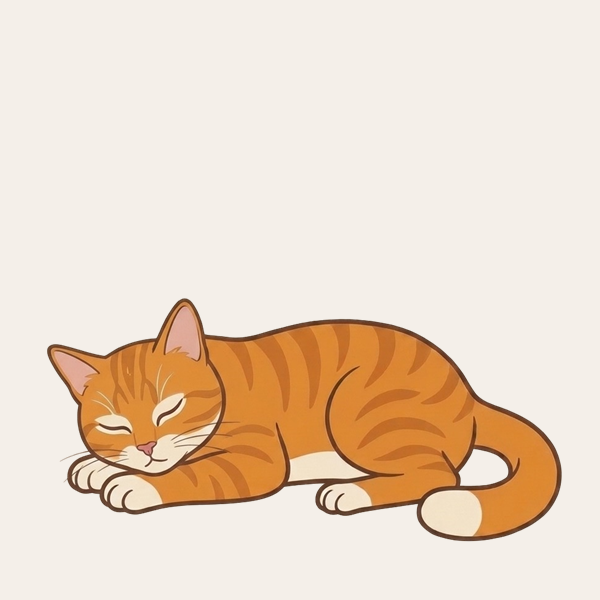
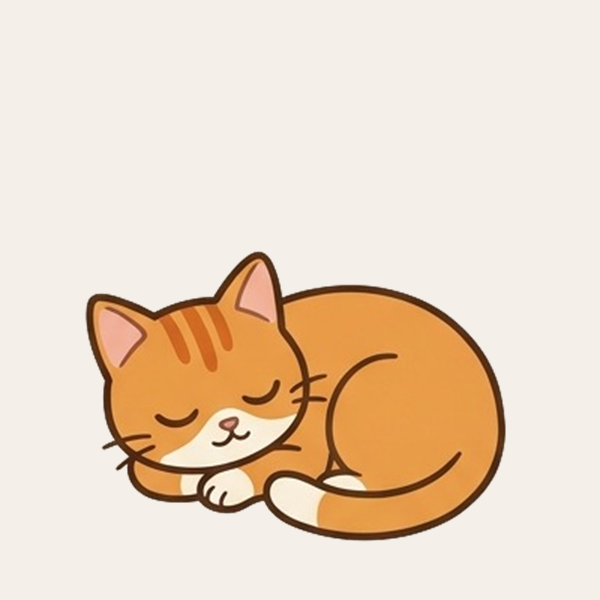
feat(pet): freeze 7 simplified storybook cat v2 masters
Switching from the complex striped tabby to a simplified Japanese
picture-book orange cat eliminates cross-pose stripe drift and video
flicker while enabling interactive sitting mouse-tracking (#221).

All 7 masters (standing, lying, sleeping, drag, sit-left, sit-center,
sit-right) export at 400x400 8-bit RGBA anchored at (200, 360) with
foot_dy = 0 px, and sit-left/sit-right align to sit-center's lower body
(lowerIoU 0.9869 / 0.9959) so only the head turns when watching.

Changed region(s): [[0.06, 0.42, 0.96, 0.9]]

diff --git a/docs/pet-video-prompts.md b/docs/pet-video-prompts.md
@@ -1,6 +1,6 @@
 # 我的JiuMi 视频生成提示词
 
-记录桌面猫动画所用的 Image Edit / VideoGen 提示词与后处理规范。**Phase 2（#211）已冻结 v2 角色风格母版、4 张基准母姿与 L1/L2/L3 三套标准化提示词模板**；Phase 3 全量新动画生产一律以「v2 标准化模板」章节为唯一入口，下方保留 v1 历史记录备查。
+记录桌面猫动画所用的 Image Edit / VideoGen 提示词与后处理规范。**Phase 2（#211）已冻结 v2 极简日系绘本橘猫角色风格母版、7 张基准母姿（含 4 核心母姿 + 3 向坐姿看鼠标母姿）与标准化提示词模板**；Phase 3 全量新动画生产一律以「v2 标准化模板」章节为唯一入口，下方保留 v1 历史记录备查。
 
 ---
 
@@ -10,72 +10,79 @@
 
 | 资产 | 路径 | 规格与对齐 | 用途 |
 | --- | --- | --- | --- |
-| 角色风格母版 | `docs/images/pet/v2-masters/style-sheet.png` | 脸部特写 + 3/4 站姿标尺 + Hex 色板 + 描边线宽样本 + 四母姿同尺排布 | 角色身份、配色、线宽唯一依据 |
-| 四母姿总览原图 | `docs/images/pet/v2-masters/raw/master-4poses-sheet-raw.png` | `1200×1200` `2×2` 归一化合图（基于「静止站姿单图 → 趴姿/拎起 → 趴姿推熟睡」链式派生，统一 `#F4EFE9` 纯底） | 4 张母姿统一标尺与花纹核对总览 |
-| 母姿 B：趴姿 | `docs/images/pet/v2-masters/master-lying.png` | `400×400` 8-bit RGBA · `anchor: { x: 200, y: 360 }` · 统一标尺 `0.700@600`（`354×217`） | `lying-idle` / `blink` / `react` 底图；`stretch` 首帧、`wake` 末帧、`sleep-in` 首帧 |
-| 母姿 A：站姿 | `docs/images/pet/v2-masters/master-standing.png` | `400×400` 8-bit RGBA · `anchor: { x: 200, y: 360 }` · 统一标尺 `0.700@600`（`333×244`） | 静止四足站立唯一锚点（前后双腿各自并拢、前腿横纹清晰一致）；`stretch` 末帧、`walk` 首帧、`jump` 起止基准 |
-| 母姿 C：熟睡 | `docs/images/pet/v2-masters/master-sleeping.png` | `400×400` 8-bit RGBA · `anchor: { x: 200, y: 360 }` · 统一标尺 `0.700@600`（`344×163`） | 由趴姿直接低头闭眼派生（躯干与绕侧尾 100% 咬合）；`sleep` 底图、`sleep-in` 末帧、`wake` 首帧 |
-| 独立态：拎起 | `docs/images/pet/v2-masters/master-drag.png` | `400×400` 8-bit RGBA · `anchor: { x: 200, y: 360 }` · 统一标尺 `0.700@600`（`332×252`） | `drag` 循环底图 |
-| 单态切片原图 | `docs/images/pet/v2-masters/raw/master-{lying,standing,sleeping,drag}-raw.png` | 去背归一化至 `#F4EFE9` 纯底的 `600×600` 单姿原图（与 `400×400` 严格 `1.5×` 对应，`anchor: 300,540`） | L1/L2/L3 模型输入原图（导出统一乘 `2/3 ≈ 0.667`） |
-| 审片图 | `docs/images/pet/v2-masters/onion-skin-masters.png`、`preview-light-dark-200dip.png` | `tools/verify-pet-pack.ps1` 渲染输出 | 四母姿洋葱皮重叠校验 + 浅/深色 200 DIP 边缘校验 |
+| 角色风格母版 | `docs/images/pet/v2-masters/style-sheet.png` | 圆形脸部特写 + 3/4 站姿标尺 + 实测 Hex 色板 + 描边线宽样本 + 4 核心母姿 + 3 坐姿母姿排布 | 角色身份、配色、线宽唯一依据 |
+| 六姿原图与拎起原图 | `docs/images/pet/v2-masters/raw/master-6poses-source-raw.png`、`raw/master-drag-source-raw.png` | `1024×1024` 极简绘本纯文生图六姿原图（`#F2EEE3` 底）+ 派生拎起单图（`#F1EEDF` 底） | 7 张冻结母姿的唯一无损源画布 |
+| 母姿 A：站姿 | `docs/images/pet/v2-masters/master-standing.png` | `400×400` 8-bit RGBA · `anchor: { x: 200, y: 360 }` · `scale=1.000`（`284×272`） | 静止四足站立（前后双腿各自并拢）；`stretch` 末帧、`walk` 首帧、`jump` 起止基准 |
+| 母姿 B：趴姿 | `docs/images/pet/v2-masters/master-lying.png` | `400×400` 8-bit RGBA · `anchor: { x: 200, y: 360 }` · `scale=1.000`（`293×215`） | `lying-idle` / `blink` / `react` 底图；`stretch` 首帧、`wake` 末帧、`sleep-in` 首帧、`sit-to-lie` 末帧 |
+| 母姿 C：熟睡 | `docs/images/pet/v2-masters/master-sleeping.png` | `400×400` 8-bit RGBA · `anchor: { x: 200, y: 360 }` · `scale=1.000`（`280×194`） | `sleep` 底图；`sleep-in` 末帧、`wake` 首帧 |
+| 独立态：拎起 | `docs/images/pet/v2-masters/master-drag.png` | `400×400` 8-bit RGBA · `anchor: { x: 200, y: 360 }` · `scale=0.400`（`318×264`） | `drag` 循环底图 |
+| 坐姿左看 | `docs/images/pet/v2-masters/master-sit-left.png` | `400×400` 8-bit RGBA · `anchor: { x: 200, y: 360 }` · 下半身对齐 `sit-center`（`282×309`） | `interactions.sit-watch-left`（鼠标在头左侧 `< -60 DIP`）；`sit-to-lie` 首帧 |
+| 坐姿中看 | `docs/images/pet/v2-masters/master-sit-center.png` | `400×400` 8-bit RGBA · `anchor: { x: 200, y: 360 }` · `scale=1.000`（`261×309`） | `interactions.sit-watch-center`（`\|cursorX - catHeadX\| <= 60 DIP`） |
+| 坐姿右看 | `docs/images/pet/v2-masters/master-sit-right.png` | `400×400` 8-bit RGBA · `anchor: { x: 200, y: 360 }` · 下半身对齐 `sit-center`（`256×311`） | `interactions.sit-watch-right`（鼠标在头右侧 `> +60 DIP`） |
+| 单态切片原图 | `docs/images/pet/v2-masters/raw/master-{lying,standing,sleeping,drag,sit-left,sit-center,sit-right}-raw.png` | 去背归一化至 `#F4EFE9` 纯底的 `600×600` 单姿原图（与 `400×400` 严格 `1.5×` 对应，`anchor: 300,540`） | L1/L2/L3 模型输入原图（导出统一乘 `2/3 ≈ 0.667`） |
+| 审片图 | `docs/images/pet/v2-masters/onion-skin-masters.png`、`onion-skin-sit-watch.png`、`preview-light-dark-200dip.png` | `tools/verify-pet-pack.ps1` 渲染输出 | 4 核心母姿洋葱皮 + 3 坐姿下身锁死洋葱皮 + 7 姿浅/深色 200 DIP 边缘校验 |
 
-**冻结色板与物理标尺**：
-- 轮廓深棕 `#5F3417`（圆角连接；`400×400` 导出 **`3.0 px`** → `200 DIP` 运行时 `~1.5 px`）；主毛暖橘 `#E69342`；虎斑深橘 `#D27831`（额头/脸颊/背部/体侧竖纹 + **双前腿清晰横纹** + 后大腿弧纹，**不单独描边**）；奶油白 `#F8E9D1`（口鼻/锯齿边白胸口/白腹缘/短白爪/圆润白尖尾）；耳廓粉 `#E8AE95`；粉鼻 `#D0967A`；琥珀虹膜 `#D88A28`（竖瞳 `#3A2210` + 白色高光）；参考画布底色 `#F4EFE9`（仅生成用，运行时透明）。保留精细浅淡胡须与额头小白眉线。
-- **物理标尺（`400×400` 实测自 `master-standing.png`）**：头宽 **`~93 px`**、躯干长（胸前至臀后不含尾）**`~218 px`**（自然 3–3.5 头身）、肩背高（距地面线 `y=360`）**`~177 px`**（含耳总高 `243 px`）。四张母姿统一按 `600×600` 归一化画布乘 **`0.700`**（`1024×1024` 派生图乘 `0.700 × 600 / 1024 = 0.41016`）导出：`maxY = 360`（底边留 `40 px` 余量、`foot_dy = 0 px`），质心 `x = 199.63–200.43`。`lying` 与 `sleeping` 的绕尾封闭孔洞已完全抠透并去边至 `#5F3417`，浅/深色背景零底色残留。
-- **尾巴与四肢花纹一致性标准（v2 冻结）**：采用**纯暖橘（`#E69342`）毛绒尾 + 圆润奶油白尖（`#F8E9D1`）**，**彻底去掉尾巴上“一圈一圈”的高对比深色环纹**；双前腿保持清晰统一的横向虎斑环纹、后大腿保持弧形条纹。
+**冻结色板与物理标尺（极简日系绘本风）**：
+- 轮廓深棕 `#542E12`（圆角连接，同步用于脸颊胡须；`400×400` 导出 **`~5.0 px`** → `200 DIP` 运行时 `~2.5 px`）；主毛蜂蜜暖橘 `#E89C4A`；额头三道对称竖纹 `#CD7834`（**仅额头 3 道对称圆头竖条，不画体侧与四肢虎斑、不单独描边**）；奶油白 `#F9EDD8`（口鼻/圆润胸口/腹缘/四只短圆白爪/短白尖尾）；耳廓粉 `#EFB29D`；粉鼻 `#D39175`；琥珀虹膜 `#DE9C48`（清晰深棕瞳孔 + 小白高光）；参考画布底色 `#F4EFE9`（仅生成用，运行时透明）。
+- **物理标尺（`400×400` 实测自 `master-standing.png`）**：头宽 **`~136 px`**、躯干长（胸前至臀后不含尾）**`~185 px`**（柔和紧凑的 **2.2–2.4 头身**绘本比例）、含耳总高 **`272 px`**（`y: 89..360`）。六格原图全部采用 **`scale = 1.000`** 零插值模糊导出，`drag` 单图按头宽对齐采用 **`scale = 0.400`** 导出；7 张母姿全部 **`maxY = 360`**（`foot_dy = 0 px`，底边留 `40 px` 垂尾余量），质心 `x = 198.20–201.54`。`sit-left` / `sit-right` 严格按 `y = 195..360` 下半身轮廓最大化重合度对齐至 `sit-center`（`lowerIoU = 0.9869 / 0.9959`），保证转头看鼠标时坐姿躯干与尾巴稳如磐石。
+- **花纹与尾巴一致性标准（v2 冻结）**：去掉体侧条纹、四肢条纹与尾巴环纹，只保留**额头正中 3 道对称圆头竖纹**、**每侧脸颊 2 根短巧深棕小胡须**、以及**短巧紧凑的纯暖橘（`#E89C4A`）白尖（`#F9EDD8`）尾**，兼顾 `200 DIP` / `160 DIP` 清晰度、AI 跨帧零闪烁与「坐立头部跟随鼠标 → 看累趴下睡觉」交互扩展。
 
-### 2. 「1 推 3」母姿链式派生模板（`Standing → Lying / Drag`；`Lying → Sleeping`）
-
-- **最佳实践**：先锁定 1 张全身花纹完全展开的 **静止站姿（`standing`）** 单图，以「1 图推 1 图 + 精简正向自然语言」分别推出 `lying` 与 `drag`；再以 `lying` 为基底轻垂头部闭眼推出 `sleeping`（避免从 `standing` 直接硬跳 `sleeping` 导致脸型和头身比漂移，同时让 `sleep-in` / `wake` 过渡躯干零跳变）。
+### 2. 极简绘本 6 姿母版 + `drag` 派生生成模板
 
 ```text
-# Standing -> Lying
-Redraw this exact orange tabby cat lying comfortably on its belly facing left in 3/4 view, at the same scale and centered on the same plain #F4EFE9 background. Keep the exact same face, half-lidded amber eyes, thin whiskers, bold dark-brown outline, flat cel color style, white chest, short white paws, horizontal front-leg tabby bands, hind-thigh stripes, and solid warm-orange tail with a rounded cream-white tip. Both front legs stretch neatly forward on the ground, hind legs are tucked beside the body, and the tail curls smoothly beside the hip. Clean isolated sprite with no ground shadow.
+# 2x3 六姿母版纯文生图（站 / 趴 / 睡 + 坐姿左/中/右转头）
+A clean 2-row character concept sheet (6 sprites: 3 on top row, 3 on bottom row) of the exact same simplified cozy Japanese picture-book orange cat on a uniform solid warm off-white background (#F4EFE9). No grid lines, no borders, no text, no labels, no ground shadows, no props.
 
-# Standing -> Drag
-Redraw this exact orange tabby cat floating gently in mid-air as if lifted softly from the upper back by an invisible force, facing left in 3/4 view, at the same scale and centered on the same plain #F4EFE9 background. Keep the exact same face, calm half-lidded amber eyes, thin whiskers, bold dark-brown outline, flat cel color style, white chest, short white paws, horizontal front-leg tabby bands, hind-thigh stripes, and solid warm-orange tail with a rounded cream-white tip. The back is gently arched, all four legs and the tail dangle loosely downward, with nothing touching or holding the cat. Clean isolated sprite with no ground shadow.
+Style: Warm indie 2D hand-drawn picture-book illustration, smooth bold uniform dark-brown outline (#542E12) with rounded joins, pure flat cel fills, zero fur strands, zero gradients, zero 3D shading. Compact softly rounded 2.2-2.4 head-lengths proportions (approachable and expressive, not cheap giant-head chibi, not rigid geometric logo).
 
-# Lying -> Sleeping
-Edit this exact orange tabby cat from the reference image into a peaceful sleeping pose, keeping the exact same cat identity, head size, slender 3/4 side-profile head shape, and camera scale on the same plain #F4EFE9 background. Keep the same body mass and tucked resting silhouette, simply lowering the head gently down to rest its chin and cheek on its tucked front white paws while curling the body slightly tighter. Keep both eyes smoothly closed into thin gentle dark-brown curved lines, ears softly relaxed with pale pink inner ears, the exact same small pink nose and calm closed mouth (not a wide cartoon smile), the exact same faint ultra-thin whiskers (not thick black lines), forehead white eyebrow markings, bold dark-brown outline, flat cel colors, tabby stripes, short white paws, and the solid warm-orange tail with a rounded cream-white tip resting smoothly beside the body. Clean isolated sprite with no ground shadow and no Zzz symbols.
+Minimal markings (100% identical across all 6 sprites): Solid warm honey-orange body (#E89C4A) with NO body stripes, NO leg stripes, and NO tail rings.
+FOREHEAD MARKING LOCK (100% IDENTICAL IN ALL 6 SPRITES): Centered directly between the two ears starting from the top crown of the head, draw EXACTLY three neat, clean, symmetrical vertical pill-shaped stripes in darker orange (#CD7834) pointing straight down toward the eyes — one slightly longer center stripe flanked by two shorter identical side stripes, evenly spaced and uniform in thickness (NEVER random dots, NEVER M-shaped, NEVER slanted or wavy).
+Cream-white (#F9EDD8) muzzle, chest bib, belly trim, four neat short white paws, and a small cream-white tip on a short compact solid-orange tail. Soft pink inner ears (#EFB29D), tiny pink nose (#D39175), 2 short neat delicate dark-brown whiskers on each cheek (#542E12), and expressive half-lidded amber eyes with clear dark pupils.
+
+Top row (3 poses facing left in 3/4 view): 1. Stationary standing on all four white paws; 2. Lying comfortably on belly with paws tucked forward; 3. Curled peacefully asleep with closed curved eyes, no Zzz.
+Bottom row (3 sitting mouse-watching poses — EXACT SAME stationary sitting body & curled tail in all 3, ONLY the head and eyes turn): 4. Sitting upright looking left; 5. Exact same sitting body looking forward/slightly up; 6. Exact same sitting body looking right.
+
+# 从站姿单图派生拎起（drag）母姿（1:1 图生图）
+Using the provided 2D simplified Japanese picture-book orange cat as the EXACT character and style reference, draw a single centered 1:1 sprite of this exact cat floating gently in mid-air as if lifted softly from the upper back by an invisible force, facing left in 3/4 view on the exact same uniform warm off-white background (#F2EEE3). Keep the exact same 2.2-2.4 head-lengths rounded picture-book proportions, head size, bold uniform dark-brown outline (#542E12), pure flat cel colors, solid honey-orange body with NO body stripes and NO leg stripes, EXACTLY three symmetrical vertical pill-shaped darker-orange forehead stripes between the ears, 2 short neat dark-brown whiskers per cheek, pale pink inner ears, tiny pink nose, cream-white muzzle and chest bib, four short rounded white paws, and short solid-orange tail with a small rounded cream-white tip. The back is gently arched, all four legs and the white-tipped tail dangle loosely downward, with a calm slightly aloof half-lidded expression. Clean isolated single cat sprite only — no human hand, no collar, no grid, no ground shadow, no text.
 ```
 
-### 3. L1 局部编辑模板（`lying-idle` / `blink` / `sleep` / `react` / `drag`）
+### 3. L1 局部编辑模板（`lying-idle` / `blink` / `sleep` / `react` / `drag` / `interactions.sit-watch-*`）
 
-- **适用状态**：`lying-idle`、`blink`、`sleep`、`react`、`drag`（幅度小、躯干与外轮廓必须保持静态零偏移）。
-- **输入**：对应冻结母姿的切片原图（`docs/images/pet/v2-masters/raw/master-{lying,standing,sleeping,drag}-raw.png`，`600×600` 纯 `#F4EFE9` 底）。
+- **适用状态**：`lying-idle`、`blink`、`sleep`、`react`、`drag`，以及坐姿三向 `interactions.sit-watch-left` / `sit-watch-center` / `sit-watch-right`（#215 同步校验坐姿下身零偏移）。
+- **输入**：对应冻结母姿的切片原图（`docs/images/pet/v2-masters/raw/master-{lying,standing,sleeping,drag,sit-left,sit-center,sit-right}-raw.png`，`600×600` 纯 `#F4EFE9` 底）。
 - **后处理硬门**：仅抠出局部变化区域（眼/耳/尾/呼吸胸腹），用 **Alpha Mask 回贴到冻结的 `400×400` 母姿底图**，确保未编辑区域的躯干与外轮廓达到 `diff = 0`（通过 `tools/verify-pet-pack.ps1` 的 L1 `MinL1ExactMatchPct >= 80%` 门）。
 
 ```text
-Edit ONLY the specified local region of the provided 2D flat hand-drawn illustration of the orange tabby cat.
+Edit ONLY the specified local region of the provided 2D simplified Japanese picture-book illustration of the orange cat.
 
 STRICT LOCKS (DO NOT CHANGE):
-- Keep the exact same character identity, 3-3.5 head body proportions, body silhouette, torso position, head size, camera framing, bold uniform dark-brown outline (#5F3417), flat color palette (#E69342 orange fur, #D27831 un-outlined tabby stripes on forehead/back/flanks, horizontal front-leg bands, and hind-thigh stripes, plush solid warm-orange tail #E69342 with NO dark stacked rings and a rounded cream-white tip #F8E9D1, #F8E9D1 white muzzle/chest/belly/short white paws, #D0967A pink nose, #D88A28 amber iris, faint thin whiskers), and plain solid uniform warm off-white background (#F4EFE9).
+- Keep the exact same character identity, 2.2-2.4 head-lengths rounded picture-book proportions, body silhouette, torso position, head size, camera framing, bold uniform dark-brown outline (#542E12, ~5 px @ 400x400), pure flat cel palette (#E89C4A honey-orange solid fur, ONLY 3 symmetrical vertical pill-shaped forehead stripes #CD7834 with NO body/leg stripes, compact solid-orange tail with NO dark rings and a small rounded cream-white tip #F9EDD8, #F9EDD8 white muzzle/chest bib/belly/short white paws, #EFB29D inner ears, #D39175 pink nose, #DE9C48 amber iris, 2 short neat whiskers per cheek), and plain solid uniform warm off-white background (#F4EFE9).
 - Do NOT shift, scale, rotate, or redraw the unedited body, paws, or outer contour.
-- Do NOT add fur strands, gradients, 3D shading, ground shadows, props, text, or watermarks.
+- Do NOT add body stripes, fur strands, gradients, 3D shading, ground shadows, props, text, or watermarks.
 
 LOCAL EDIT ONLY:
 <REPLACE_WITH_STATE_EDIT:
   - blink-half: lower the upper eyelids halfway over the amber irises while keeping head, ears, whiskers, and body 100% identical.
   - blink-closed: close both eyes smoothly into gentle dark-brown curved lines while keeping head, ears, whiskers, and body 100% identical.
-  - lying-idle-01: gently sway ONLY the cream-tipped tail tip slightly upward/outward by ~15 px and add a subtle 4 px chest rise from breathing; keep head, face, front paws, and ground line 100% locked.
+  - lying-idle-01: gently sway ONLY the short cream-tipped tail tip slightly upward/outward by ~12 px and add a subtle 4 px chest rise from breathing; keep head, face, front paws, and ground line 100% locked.
   - sleep-01: add a subtle 5 px slow-breathing rise on the back contour only; keep folded ears, closed eyes, paws, and curled tail 100% locked.
   - react-01: perk both ears slightly more upright and widen the almond amber eyes slightly in mild surprise; keep torso and paws 100% locked.
-  - drag-01: sway ONLY the dangling hind paws and hanging cream-tipped tail slightly to the right by ~12 px; keep head, shoulders, and torso 100% locked.
+  - drag-01: sway ONLY the dangling hind paws and hanging cream-tipped tail slightly to the right by ~10 px; keep head, shoulders, and torso 100% locked.
 >
 ```
 
-### 4. L2 首尾帧过渡 I2V 模板（`stretch` / `sleep-in` / `wake` / `jump`）
+### 4. L2 首尾帧过渡 I2V 模板（`stretch` / `sleep-in` / `wake` / `jump` / `interactions.sit-to-lie`）
 
-- **适用状态**：`stretch`（`master-lying` → `master-standing`）、`sleep-in`（`master-lying` → `master-sleeping`）、`wake`（`master-sleeping` → `master-lying`）、`jump`（`master-standing` → 垂直轻跳 → `master-standing`）。
-- **生成参数**：Image-to-Video（First + Last Frame Lock），1:1（`768×768` 或 `1024×1024`），`24 fps`，`2–3 s`，非循环。
-- **抽帧与后处理硬门**：均匀抽取 **6–8 帧**（运行时 `10–12 fps`，即 `83–100 ms/帧`）；整段使用**单一缩放系数**与**统一抠像去边（defringe 至 `#5F3417`）**对齐至 `anchor: { x: 200, y: 360 }`；过 `tools/verify-pet-pack.ps1` 连续性硬门（相邻帧质心突跳 `<= 6 px`、包围盒缩放变化 `<= 5%`）。
+- **适用状态**：`stretch`（`master-lying` → `master-standing`）、`sleep-in`（`master-lying` → `master-sleeping`）、`wake`（`master-sleeping` → `master-lying`）、`jump`（`master-standing` → 垂直轻跳 → `master-standing`），以及 `interactions.sit-to-lie`（`master-sit-left` → `master-lying`，4–6 帧约 0.5 s，服务 #221「坐立看累后缓缓趴下睡觉」）。
+- **生成参数**：Image-to-Video（First + Last Frame Lock），1:1（`768×768` 或 `1024×1024`），`24 fps`，`2–3 s`（`sit-to-lie` 可 `1.5–2 s`），非循环。
+- **抽帧与后处理硬门**：核心过渡均匀抽取 **6–8 帧**（运行时 `10–12 fps`，即 `83–100 ms/帧`）；`sit-to-lie` 抽取 **4–6 帧**；整段使用**单一缩放系数**与**统一抠像去边（defringe 至 `#542E12`）**对齐至 `anchor: { x: 200, y: 360 }`；过 `tools/verify-pet-pack.ps1` 连续性硬门（相邻帧质心突跳 `<= 6 px`、包围盒缩放变化 `<= 5%`）。
 
 ```text
-Animate a smooth, natural 2D hand-drawn frame-by-frame transition between the locked start frame and the locked end frame of this exact orange tabby cat.
+Animate a smooth, natural 2D hand-drawn frame-by-frame transition between the locked start frame and the locked end frame of this exact simplified Japanese picture-book orange cat.
 
 STRICT STYLE & CAMERA LOCKS:
-- Preserve the exact same character design, 3-3.5 head body proportions, almond half-lidded amber eyes, pink nose, faint thin whiskers, white muzzle/chest/belly/short white paws, plush solid warm-orange tail (#E69342, NO dark stacked rings on the tail) with a rounded cream-white tip (#F8E9D1), bold uniform dark-brown outline (#5F3417), un-outlined tabby stripes (#D27831) including consistent horizontal front-leg bands and hind-thigh stripes, and flat warm 2D illustration style.
-- Do NOT restyle, do not add 3D depth, fur texture, gradients, soft glow, or photorealism.
+- Preserve the exact same character design, 2.2-2.4 head-lengths rounded picture-book proportions, almond half-lidded amber eyes, pink nose, 2 short neat whiskers per cheek, cream-white muzzle/chest bib/belly/short white paws, 3 symmetrical vertical pill-shaped darker-orange forehead stripes (#CD7834) ONLY (NO body stripes, NO leg stripes), compact solid warm-orange tail (#E89C4A, NO dark rings) with a small rounded cream-white tip (#F9EDD8), bold uniform dark-brown outline (#542E12), and pure flat cel illustration style.
+- Do NOT restyle, do not add body stripes, 3D depth, fur texture, gradients, soft glow, or photorealism.
 - Locked static camera: zero zoom, zero pan, zero tilt, zero camera shake.
 - Plain solid uniform warm off-white background (#F4EFE9) throughout every frame.
 - No ground shadow, no floor line, no props, no motion lines, no text, no watermark, no extra cats.
@@ -83,8 +90,9 @@ STRICT STYLE & CAMERA LOCKS:
 MOTION (IN PLACE, NO HORIZONTAL DRIFT):
 <REPLACE_WITH_TRANSITION:
   - stretch (lying -> standing): The cat smoothly pushes up from the lying pose into a brief natural feline back-arch/front-paw stretch, then settles cleanly into the exact locked neutral four-paw standing end frame in place.
-  - sleep-in (lying -> sleeping): The cat smoothly lowers its head onto its front paws, gently folds its ears slightly, closes its eyes, and settles snugly into the exact locked sleeping end frame in place.
+  - sleep-in (lying -> sleeping): The cat smoothly lowers its head onto its front paws, gently folds its ears slightly, closes its eyes, and tucks snugly into the exact locked curled sleeping end frame in place.
   - wake (sleeping -> lying): The cat smoothly lifts its head from its paws, perks its ears back up, opens its almond half-lidded amber eyes, and settles into the exact locked lying end frame in place.
+  - sit-to-lie (sit-left -> lying): The cat smoothly lowers its chest and front paws forward onto the ground from the sitting pose, curling the short white-tipped tail beside its hip into the exact locked lying end frame in place.
   - jump (standing -> standing): The cat performs a small vertical hop in place — brief crouch anticipation, push-off with all four white paws tucked cleanly off the ground, short airborne apex, soft landing back onto the exact locked four-paw standing end frame. No forward translation.
 >
 ```
@@ -92,21 +100,21 @@ MOTION (IN PLACE, NO HORIZONTAL DRIFT):
 ### 5. L3 固定机位走路 I2V 模板（`walk`）
 
 - **适用状态**：`walk`（全身连续循环；只需面向左侧的单向循环，向右由运行时水平镜像）。
-- **输入**：首帧锁定 `docs/images/pet/v2-masters/raw/master-standing-raw.png`（静止四足站姿，确保起手比例、前腿横纹与白尖尾 100% 对齐），步态节奏参考 `docs/images/pet/references/walk-reference.gif`。
+- **输入**：首帧锁定 `docs/images/pet/v2-masters/raw/master-standing-raw.png`（静止四足站姿，确保起手比例、额头三纹与短白尖尾 100% 对齐），步态节奏参考 `docs/images/pet/references/walk-reference.gif`。
 - **生成参数**：Reference / Image-to-Video，固定机位，`3–5 s`，`24 fps`，纯 `#F4EFE9` 底。
 - **抽帧与后处理硬门**：选取 1 个完整左右交替步态周期，抽取 **16–20 帧**（运行时 `18–24 fps`，即 `42–56 ms/帧`，按页面移速 `~103 DIP/s` 匹配步幅不滑步）；整段采用**单一裁切与单一缩放系数**，统一去边对齐至 `anchor: { x: 200, y: 360 }`；通过 `tools/verify-pet-pack.ps1` 连续性硬门（相邻帧质心突跳 `<= 6 px`、包围盒缩放变化 `<= 5%`）。
 
 ```text
-Animate the provided 2D flat hand-drawn illustration of the orange tabby cat (starting from the locked neutral standing pose) into a smooth, seamless in-place walk cycle facing left.
+Animate the provided 2D simplified Japanese picture-book illustration of the orange cat (starting from the locked neutral standing pose) into a smooth, seamless in-place walk cycle facing left.
 
 STRICT STYLE & CAMERA LOCKS:
-- Keep the exact same character identity, 3-3.5 head body proportions, face, almond half-lidded amber eyes, pink nose, faint thin whiskers, white muzzle/chest/belly/short white paws, plush solid warm-orange tail (#E69342, NO dark stacked rings on the tail) with a rounded cream-white tip (#F8E9D1), bold uniform dark-brown outline (#5F3417), un-outlined tabby stripes (#D27831) including consistent horizontal front-leg bands and hind-thigh stripes, and flat warm 2D illustration style.
-- Do NOT restyle, do not make it 3D, do not add fur strands, gradients, shading flicker, or photorealism.
+- Keep the exact same character identity, 2.2-2.4 head-lengths rounded picture-book proportions, face, almond half-lidded amber eyes, pink nose, 2 short neat whiskers per cheek, cream-white muzzle/chest bib/belly/short white paws, 3 symmetrical vertical pill-shaped darker-orange forehead stripes (#CD7834) ONLY (NO body stripes, NO leg stripes), compact solid warm-orange tail (#E89C4A, NO dark rings) with a small rounded cream-white tip (#F9EDD8), bold uniform dark-brown outline (#542E12), and pure flat cel illustration style.
+- Do NOT restyle, do not add body/leg stripes, do not make it 3D, do not add fur strands, gradients, shading flicker, or photorealism.
 - Locked static camera: zero zoom, zero pan, zero tilt; plain solid uniform warm off-white background (#F4EFE9).
 - Full body visible in left-facing 3/4 side view, all four white paws clearly visible and never cropped.
 
 WALK CYCLE MOTION (TREADMILL IN PLACE):
-- The cat walks smoothly in place to the left as if on an invisible treadmill, matching a natural four-beat feline walk gait: front legs alternate cleanly (left forward, then right forward), hind legs alternate naturally with slight shoulder/hip sway, and the cream-tipped tail sways gently and relaxed behind the body without touching the ground line.
+- The cat walks smoothly in place to the left as if on an invisible treadmill, matching a natural four-beat feline walk gait: front legs alternate cleanly (left forward, then right forward), hind legs alternate naturally with slight shoulder/hip sway, and the short cream-tipped tail sways gently and relaxed behind the body without touching the ground line.
 - Keep the cat at the exact same scale, horizontal center, and vertical ground plane across every frame; zero forward translation, zero vertical drift, zero sliding paws.
 - Smooth seamless loop. No ground shadow, no floor line, no props, no motion lines, no text, no watermark, no extra cats.
 ```
